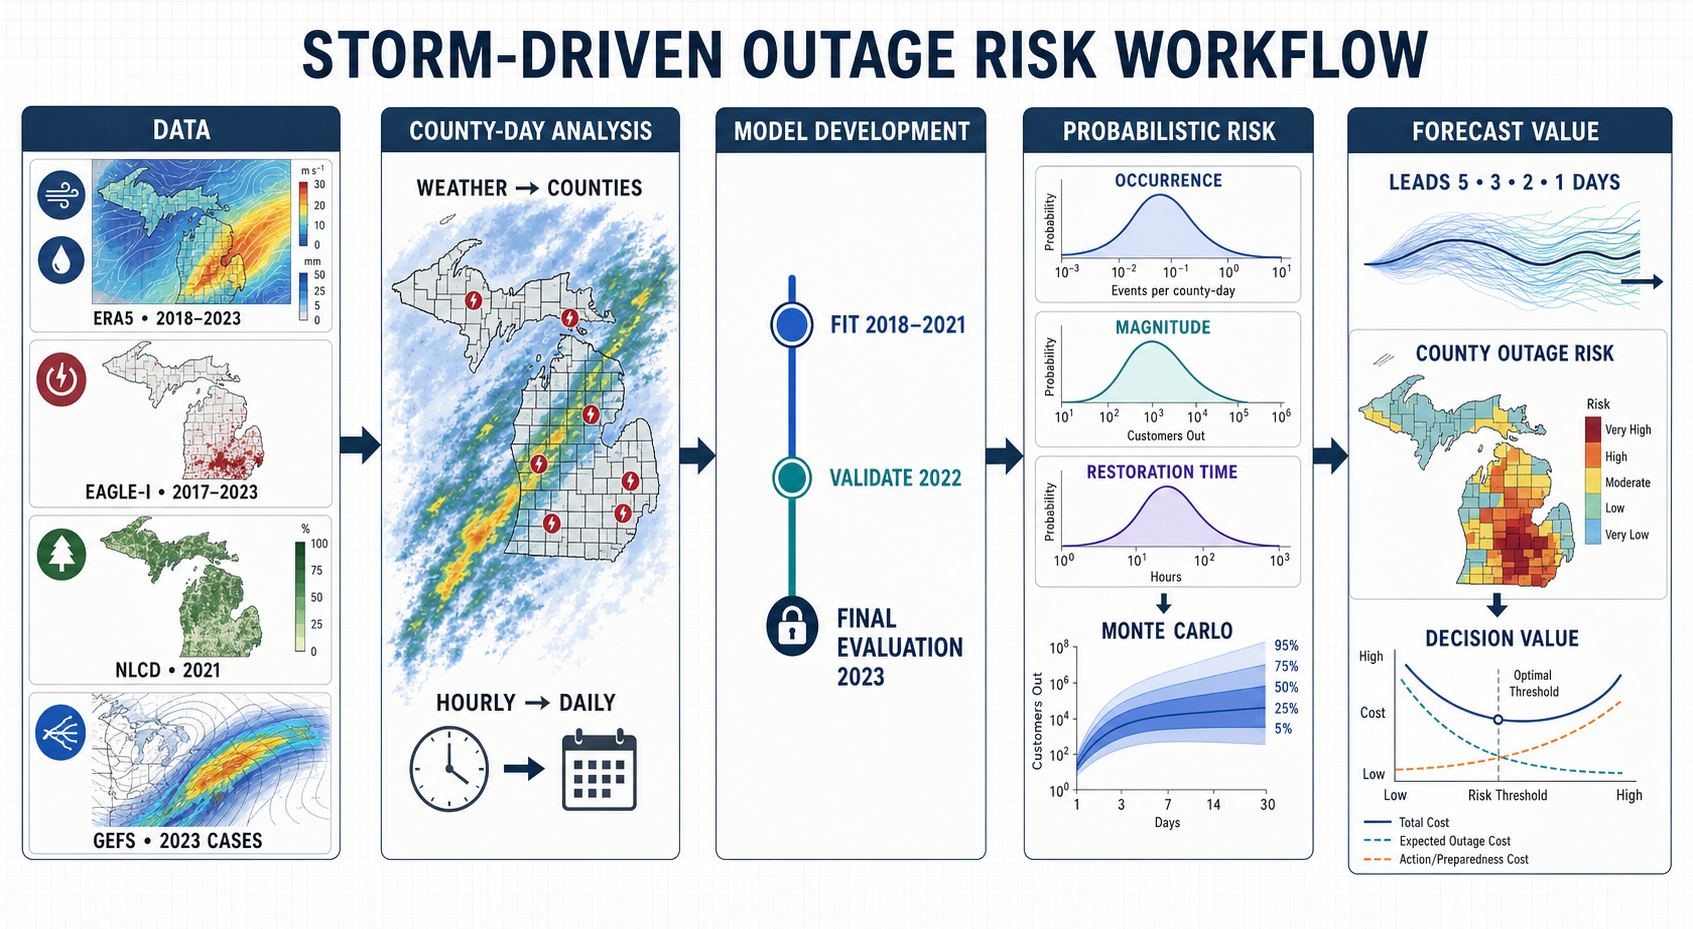
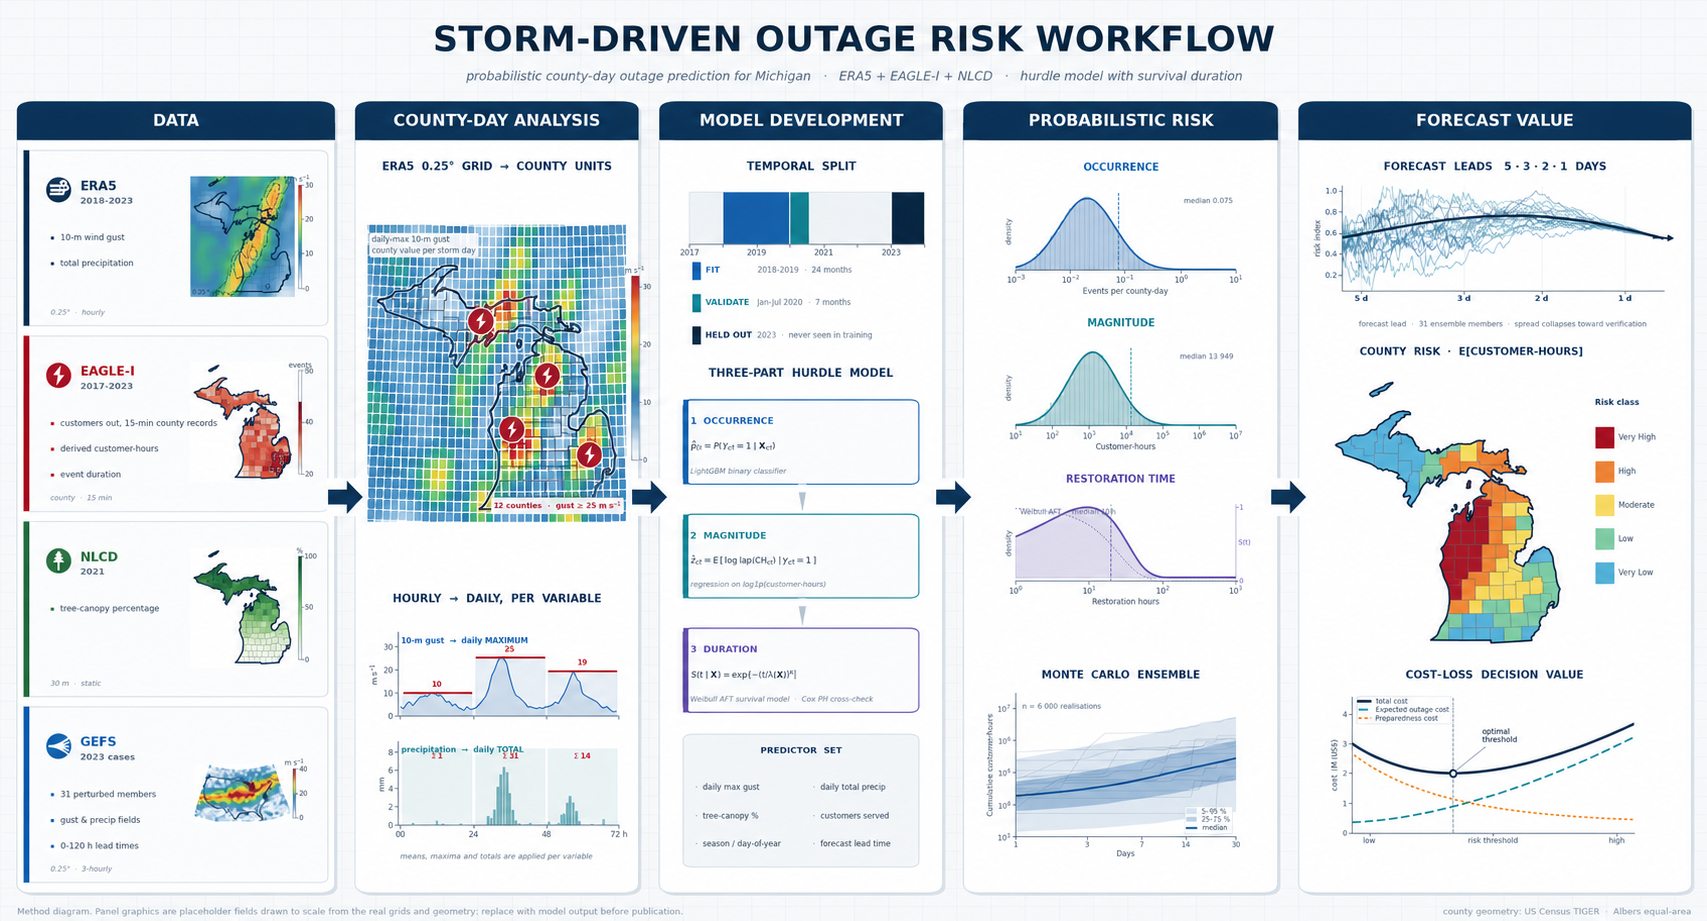
Update workflow figure and align study text

diff --git a/src/05_fit_models.py b/src/05_fit_models.py
@@ -75,7 +75,7 @@ def drop_degenerate(X: pd.DataFrame, gb, tag: str) -> pd.DataFrame:
 
 def chronological_split(df: pd.DataFrame, cfg) -> dict[str, pd.DataFrame]:
     """Phase 1 splits are MEANINGLESS. They exist only to prove the split code
-    runs. Phase 2 uses the frozen 2018-2021 / 2022 / 2023 boundaries."""
+    runs. Phase 2 uses the frozen 2018-2019 / Jan-Jul 2020 / 2023 boundaries."""
     days = sorted(df.date.unique())
     n_tr, n_va = int(cfg.get("train_days", 3)), int(cfg.get("val_days", 1))
     tr, va, te = days[:n_tr], days[n_tr:n_tr + n_va], days[n_tr + n_va:]

diff --git a/src/select_window.py b/src/select_window.py
@@ -1,7 +1,7 @@
 #!/usr/bin/env python
 """Step 0 -- pick the five-day window from the data, not from memory.
 
-  0a  download one full year from the TRAINING window (2018-2021)
+  0a  download one full year from the TRAINING window (2018-2019)
   0b  statewide customers-out at hourly resolution for the whole year
   0c  window = largest peak - 2 days  ...  largest peak + 2 days
 

diff --git a/docs/PHASE2_RUNBOOK.md b/docs/PHASE2_RUNBOOK.md
@@ -11,16 +11,19 @@ by design — a job approaching one is a job that is wrong, not slow.
 
 ## Frozen design
 
-- Train: 2018-01-01 through 2021-12-31.
-- Calibration/validation: 2022 only.
+- Train: 2018-01-01 through 2019-12-31.
+- Calibration/validation: 2020-01-01 through 2020-07-31.
 - Final test: 2023 only, opened once after all choices are frozen.
+- Retrospective 2021 scoring is a separately labeled diagnostic; it never
+  enters fitting, calibration, or model selection.
 - Outage baseline: rolling 30-day 10th percentile. December 2017 is downloaded
   only as lookback context and is never a model row.
 - Reporting cohort: fixed by the **train + validation** years. A county whose
   coverage changes in the test year is reported, never silently dropped — the
   cohort is stored in the model bundle and re-checked when 2023 is opened.
-- Occurrence: LightGBM plus isotonic calibration fitted on 2022. Reported
-  validation metrics use **out-of-fold** calibrated probabilities within 2022;
+- Occurrence: LightGBM plus isotonic calibration fitted on the January–July
+  2020 validation period. Reported validation metrics use **out-of-fold**
+  calibrated probabilities within that period;
   the in-sample number is kept beside them so the optimism stays visible.
 - Magnitude: NGBoost Normal density in `log1p(customer_hours)` space, with
   LightGBM quantiles as an automatic fallback. Which one actually ran is
@@ -32,7 +35,8 @@ by design — a job approaching one is a job that is wrong, not slow.
 - Baselines (spec §7.3): county-specific climatology, county-specific
   persistence, and the gust > 20 m/s threshold rule.
 - Validation: storm-blocked, leave-one-county-out, and forward-year occurrence
-  CV; proper probabilistic scores for the frozen 2022 validation year.
+  CV; proper probabilistic scores for the frozen January–July 2020 validation
+  period.
 
 ### Storm blocking
 
@@ -90,7 +94,8 @@ log location, queue state, and elapsed time every 30 seconds, confirms its
 success through Slurm accounting, and does not submit the next stage until the
 current one succeeds. The order is annual EAGLE-I outages, one regional ARCO
 cache, the residual ERA5 monthly array, 2021 NLCD tree-canopy statistics, the
-2018–2022 build, training/validation, GEFS, and the application stages. The
+configured training/validation build (through July 2020), training/validation,
+GEFS, and the application stages. The
 ERA5 array permits five monthly tasks at once; no other Phase 2 stage overlaps
 it. A failed stage stops the controller immediately.
 
@@ -161,7 +166,7 @@ data/processed/phase2_cox_ph_test.csv
 data/processed/phase2_coverage_exclusions.json
 data/processed/phase2_composed_metrics.json
 data/processed/phase2_uncertainty_by_lead.csv
-figures/phase2_occurrence_validation_2022.png
+figures/phase2_occurrence_validation_2020.png
 figures/phase2_forecast_*.png
 figures/phase2_cost_loss_value.png
 ```
@@ -169,7 +174,8 @@ figures/phase2_cost_loss_value.png
 Specific things to check rather than glance at:
 
 - **All three CV schemes present** in `phase2_cv_metrics.csv` — `storm_blocked`,
-  `leave_one_county_out`, and four `forward_year` folds (2019–2022). A missing
+  `leave_one_county_out`, and the available `forward_year` folds on the
+  2018–2020 pre-test table. A missing
   scheme is a finding, not a formatting issue.
 - **Leave-one-county-out vs storm-blocked.** If LOCO is much worse, the model is
   memorising county-specific baselines. Spec §7.1 says name it; do.
@@ -280,7 +286,7 @@ make phase2-download-outages
 make phase2-download-era5
 make phase2-download-canopy
 make phase2-download-gefs
-make phase2                 # build through 2022, train, calibrate, validate
+make phase2                 # build through July 2020, train, calibrate, validate
 make phase2-apply           # composition, forecast, decision value
 make phase2-build-test      # only after decisions are frozen
 make phase2-test            # one-time 2023 score

diff --git a/README.md b/README.md
@@ -11,7 +11,7 @@ the physical cause of damage.
 The project asks two linked questions:
 
 1. Given observed weather, what is the distribution of outage occurrence,
-   affected customers, and restoration time for each county-day?
+   customer-hours, and restoration time for each county-day?
 2. Given an ensemble forecast, how does advance knowledge of that distribution
    change a cost-sensitive preparation decision?
 
@@ -22,13 +22,19 @@ deterministic outage estimate.
 
 ## Workflow
 
-![Storm-driven outage risk workflow: Michigan weather, outage, canopy, and forecast data are aggregated to county-day features; historical years support model development and final evaluation; probability distributions are composed into county outage risk and decision value.](docs/assets/project-workflow.png)
+![Storm-driven outage risk workflow: ERA5, EAGLE-I, NLCD, and GEFS inputs are aggregated to county-day features; a three-part probabilistic model produces county risk and decision-value inputs. The small maps and curves are schematic, not reported results.](docs/assets/project-workflow.png)
 
 Historical hazards and outage records are converted from hourly gridded and
-county data into a common county-day table. A frozen temporal design uses
-2018–2021 for fitting, 2022 for validation and model selection, and 2023 for a
-single final evaluation. GEFS ensemble forecasts then drive the 2023 case-study
-scenarios at lead days 5, 3, 2, and 1.
+county data into a common county-day table. The frozen core temporal design
+fits on 2018–2019, calibrates and validates on January–July 2020, and reserves
+2023 for a single final evaluation. The separate 2021 retrospective backtest is
+diagnostic only; it does not tune or refit the model. GEFS ensemble forecasts
+then drive the 2023 case-study scenarios at lead days 5, 3, 2, and 1.
+
+The workflow image is a method schematic: its maps, curves, density shapes,
+and annotated medians illustrate the types of inputs and outputs, rather than
+empirical estimates from a completed run. Replace those panel graphics with
+generated model output before using the figure to report results.
 
 ## Data
 
@@ -65,7 +71,7 @@ precipitation, canopy interactions, and seasonal indicators.
 Three linked models estimate:
 
 - **Occurrence:** probability of any outage event on a county-day.
-- **Magnitude:** conditional customer outage consequence.
+- **Magnitude:** conditional distribution of customer-hours.
 - **Restoration:** conditional duration of an outage event.
 
 The three distributions are sampled jointly through Monte Carlo composition to

diff --git a/docs/RUNBOOK.md b/docs/RUNBOOK.md
@@ -104,7 +104,7 @@ make fetch                            # EAGLE-I year + MCC + TIGER counties, ~10
 
 `select_window.py` prints the peak, plots the year to
 `figures/phase1_window_selection_<year>.png`, and patches the config. It refuses
-any year outside the 2018–2021 training window — the test year stays closed.
+any year outside the 2018–2019 training window — the test year stays closed.
 
 **Check the printed peak.** Under ~50,000 customers statewide and it will say so
 loudly: either the state filter or the MCC denominator is wrong, and you should

diff --git a/docs/phase1_report.md b/docs/phase1_report.md
@@ -59,5 +59,5 @@ pipeline is small.
 - [ ] Keep: download code, join logic, weight matrix, assertion suite, this table.
 - [ ] `make test` -- the assertions are now a test module that runs on every
       Phase 2 execution.
-- [ ] Confirm `region.yaml` splits are the frozen 2018-2021 / 2022 / 2023
+- [ ] Confirm `region.yaml` splits are the frozen 2018-2019 / Jan-Jul 2020 / 2023
       boundaries and that nothing in Phase 1 touched 2023.
